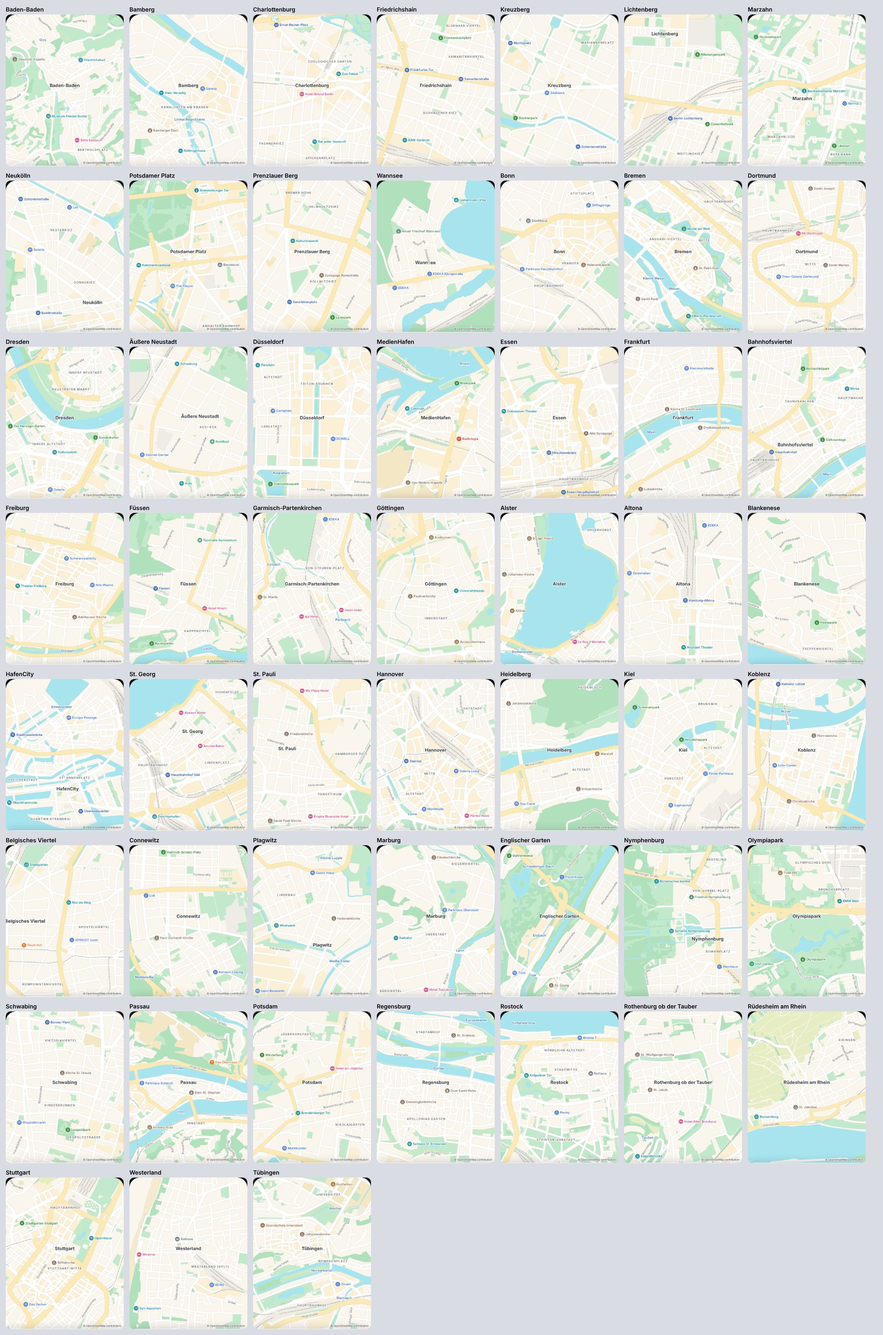
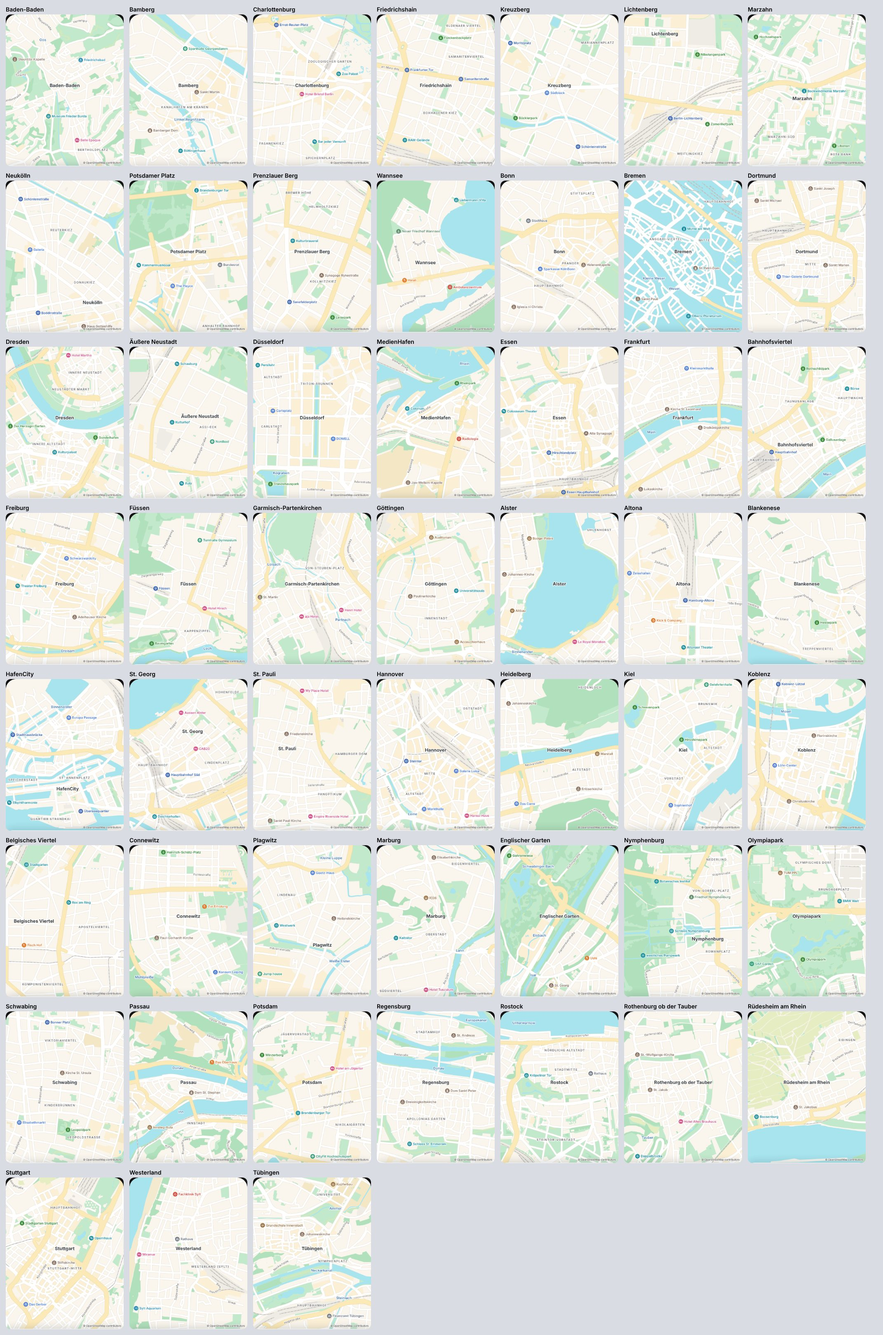
Map mockup: the sea drawn from coastlines, the big name kept on screen, street names clear of it, no chain shops or car parks; map.md checks
Claude-Session: https://claude.ai/code/session_01TBUyc4nvbfrUF2uL1hRtAL

diff --git a/docs/mockups/phone-map/osm/osmmap.js b/docs/mockups/phone-map/osm/osmmap.js
@@ -65,6 +65,34 @@ function rings(members) {
   }
   return outv.join('');
 }
+// the sea: OSM draws a coast as lines with the land on their left; joined, then closed round a frame outside the screen on the water side
+function sea() {
+  const ways = d.elements.filter(e => e.type === 'way' && e.tags && e.tags.natural === 'coastline' && e.geometry).map(e => e.geometry.map(g => [g.lon, g.lat]));
+  if (!ways.length) return '';
+  const same = (a, b) => a[0] === b[0] && a[1] === b[1], chains = [];
+  while (ways.length) { let c = ways.shift(); for (let grow = true; grow;) { grow = false; for (let i = 0; i < ways.length; i++) { const w = ways[i];
+    if (same(c.at(-1), w[0])) { c = c.concat(w.slice(1)); ways.splice(i, 1); grow = true; break; } if (same(w.at(-1), c[0])) { c = w.concat(c.slice(1)); ways.splice(i, 1); grow = true; break; } } } chains.push(c); }
+  const X0 = -400, Y0 = -400, X1 = W + 400, Y1 = H + 400, per = 2 * (X1 - X0 + Y1 - Y0);
+  const tOf = ([x, y]) => { const c = [Math.abs(y - Y0), Math.abs(x - X1), Math.abs(y - Y1), Math.abs(x - X0)], k = c.indexOf(Math.min(...c));
+    return [x - X0, (X1 - X0) + (y - Y0), (X1 - X0) + (Y1 - Y0) + (X1 - x), 2 * (X1 - X0) + (Y1 - Y0) + (Y1 - y)][k]; };
+  const atT = t => { t = ((t % per) + per) % per; const a = X1 - X0, b = Y1 - Y0; return t < a ? [X0 + t, Y0] : t < a + b ? [X1, Y0 + t - a] : t < 2 * a + b ? [X1 - (t - a - b), Y1] : [X0, Y1 - (t - 2 * a - b)]; };
+  const inside = (x, y, ps) => { let c = false; for (let i = 0, j = ps.length - 1; i < ps.length; j = i++) { const [a, b] = ps[i], [u, v] = ps[j]; if ((b > y) !== (v > y) && x < (u - a) * (y - b) / (v - b) + a) c = !c; } return c; };
+  let out = '';
+  for (const c of chains) {
+    const px = c.map(([lo, la]) => P(la, lo)).map(([x, y]) => [Math.max(X0, Math.min(X1, x)), Math.max(Y0, Math.min(Y1, y))]);
+    if (px.length < 2) continue;
+    if (same(c[0], c.at(-1))) { out += ring(px); continue; }   // an island: the ring itself is land, so the water is everything else
+    const tb = tOf(px.at(-1)), ta = tOf(px[0]), corners = [0, X1 - X0, X1 - X0 + Y1 - Y0, 2 * (X1 - X0) + Y1 - Y0];
+    const walk = dir => { const pts = []; let t = tb; const end = dir > 0 ? (ta - tb + per) % per : (tb - ta + per) % per;
+      const cs = corners.map(k => dir > 0 ? (k - tb + per) % per : (tb - k + per) % per).map((dd, i) => [dd, corners[i]]).filter(([dd]) => dd > 0 && dd < end).sort((a, b) => a[0] - b[0]);
+      for (const [, k] of cs) pts.push(atT(k)); return [...px, atT(tb), ...pts, atT(ta)]; };
+    // the water is on the coast's right (land on the left): test a point just right of the middle of the line
+    const m = Math.floor(c.length / 2), [lo0, la0] = c[Math.max(0, m - 1)], [lo1, la1] = c[Math.min(c.length - 1, m)], ddx = lo1 - lo0, ddy = la1 - la0, nn = Math.hypot(ddx, ddy) || 1;
+    const tp = P((la0 + la1) / 2 - ddx / nn * 0.0002, (lo0 + lo1) / 2 + ddy / nn * 0.0002);
+    const A = walk(1), B = walk(-1); out += ring(inside(tp[0], tp[1], A) ? A : B);
+  }
+  return out;
+}
 const area = e => e.type === 'relation' ? rings(e.members || []) : (e.geometry ? ring(pts(e.geometry)) : '');
 const COVER = { farm: '#f0eddc', grass: '#d3ebc4', scrub: '#c9ddb0', vine: '#dfe6bf', orchard: '#cfe5b8', allot: '#d9e8c6', grave: '#cfdcc8', rock: '#dcd9d3', sand: '#f3ead0', wet: '#cfe3dc' };
 const coverOf = t => { const n = t.natural, u = t.landuse;
@@ -120,7 +148,9 @@ const COVER0 = null;
 const pxArea = ps => Math.abs(ps.reduce((s, p, i) => { const q = ps[(i + 1) % ps.length]; return s + p[0] * q[1] - q[0] * p[1]; }, 0)) / 2;
 const centre = ps => { const n = ps.length; return [ps.reduce((s, p) => s + p[0], 0) / n, ps.reduce((s, p) => s + p[1], 0) / n]; };
 const POIS = [], GREENS = [];
-const L = { motor: '', station: '',  shop: '', works: '', railyard: '', school: '', mark: '', markStation: '', shadow: {}, built: '', park: '', forest: '', water: '', plaza: '', bld: '', foot: '', minor: '', mid: '', major: '', rail: '', tram: '' };
+// a place worth a name on the map: not a car park, not a chain shop or supermarket (EDEKA, PENNY…), unless it has its own wiki page
+const okPlace = (t, ic) => ic !== 'parking' && ic !== 'fuel' && !(t.brand && !t.wikipedia) && !((t.shop || ic === 'shop' || ic === 'mall') && !t.wikidata);
+const L = { sea: '', motor: '', station: '',  shop: '', works: '', railyard: '', school: '', mark: '', markStation: '', shadow: {}, built: '', park: '', forest: '', water: '', plaza: '', bld: '', foot: '', minor: '', mid: '', major: '', rail: '', tram: '' };
 const BUILT = /residential|commercial|retail|industrial|railway|construction|brownfield|education|emergency/;
 const GREEN = /grass|village_green|flowerbed|meadow|allotments|cemetery|greenhouse/;
 for (const e of d.elements) {
@@ -131,7 +161,7 @@ for (const e of d.elements) {
     const a = area(e);
     if (PRETTY || GMAP) {
       const ps = pts(e.geometry), px = pxArea(ps);
-      { const ic = pick(t); if (ic && (t.name || t.wikidata)) POIS.push({ ic, at: centre(ps), pr: (t.wikidata ? 2 : 0) + (t.name ? 1 : 0) + Math.min(2, px / 400), name: t.name }); }
+      { const ic = pick(t); if (ic && (t.name || t.wikidata) && okPlace(t, ic)) POIS.push({ ic, at: centre(ps), pr: (t.wikidata ? 2 : 0) + (t.name ? 1 : 0) + Math.min(2, px / 400), name: t.name }); }
       if (t.building === 'train_station' || t.railway === 'station') { L.station += a; continue; }
       if (px < 40 * k * k * 2.2) continue;          // the tiny sheds and kiosks go
       if (GMAP) continue;                              // gmap: no houses at this scale — the blocks are the ground
@@ -144,8 +174,8 @@ for (const e of d.elements) {
     if (FX.includes('D')) { const lv = parseFloat(t['building:levels']) || (t.height ? parseFloat(t.height) / 3 : 0) || 3, off = Math.min(7, 0.5 + lv * 3 * k * 0.3), b = (Math.round(off * 2) / 2).toFixed(1); L.shadow[b] = (L.shadow[b] || '') + a; }
     continue;
   }
-  if (COLLECT && e.geometry) { const ic = pick(t); if (ic && t.name && !t.building) { const ps = pts(e.geometry); POIS.push({ ic, at: centre(ps), pr: (t.wikidata ? 2 : 0) + 1 + Math.min(2, pxArea(ps) / 3000), name: t.name }); } }
-  if (COLLECT && e.type === 'node') { const ic = pick(t); if (ic && (t.name || t.wikidata)) POIS.push({ ic, at: P(e.lat, e.lon), pr: (t.wikidata ? 2.5 : 0) + 1, name: t.name }); }
+  if (COLLECT && e.geometry) { const ic = pick(t); if (ic && t.name && !t.building && okPlace(t, ic)) { const ps = pts(e.geometry); POIS.push({ ic, at: centre(ps), pr: (t.wikidata ? 2 : 0) + 1 + Math.min(2, pxArea(ps) / 3000), name: t.name }); } }
+  if (COLLECT && e.type === 'node') { const ic = pick(t); if (ic && (t.name || t.wikidata) && okPlace(t, ic)) POIS.push({ ic, at: P(e.lat, e.lon), pr: (t.wikidata ? 2.5 : 0) + 1, name: t.name }); }
   // gmap: parks only where they matter — courtyard lawns, flowerbeds and small gardens go
   if (GMAP && e.type === 'way' && e.geometry && (t.leisure && /park|garden/.test(t.leisure) || /^(grass|flowerbed|village_green|greenery)$/.test(t.landuse || '') || t.natural === 'grassland') && pxArea(pts(e.geometry)) < 2500 * k * k) continue;
   if (t.leisure && /park|garden/.test(t.leisure)) { L.park += area(e); if (COLLECT && e.type === 'way' && e.geometry) GREENS.push(pts(e.geometry)); continue; }
@@ -193,7 +223,7 @@ const fill = (dd, col) => dd ? `<path d="${dd}" fill="${col}" fill-rule="evenodd
 const mpx = m => Math.max(0.6, m * k);                       // real width in meters → px, with a floor
 let svg = `<rect width="${W}" height="${H}" fill="${C.land}"/>`
   + fill(L.built, C.built) + fill(L.resi, C.resi) + fill(L.shop, C.shop) + fill(L.works, C.works) + fill(L.railyard, C.railyard) + fill(L.school, C.school)
-  + ['farm', 'grass', 'allot', 'orchard', 'vine', 'grave', 'scrub', 'wet', 'sand', 'rock'].map(k => fill(LC[k], COVER[k])).join('') + fill(L.park, C.park) + fill(L.forest, C.forest) + fill(L.plaza, C.plaza) + fill(L.water, C.water)
+  + ['farm', 'grass', 'allot', 'orchard', 'vine', 'grave', 'scrub', 'wet', 'sand', 'rock'].map(k => fill(LC[k], COVER[k])).join('') + fill(L.park, C.park) + fill(L.forest, C.forest) + fill(L.plaza, C.plaza) + fill(sea(), C.water) + fill(L.water, C.water)
   + terrain()
   + Object.entries(L.shadow).map(([o, dd]) => `<path d="${dd}" fill="${C.shadow}" opacity=".75" transform="translate(${o} ${(o * 1.3).toFixed(1)})"/>`).join('')
   + fill(L.bld, C.bld) + fill(L.mark, C.mark) + fill(L.markStation, C.markStation)
@@ -209,7 +239,7 @@ let svg = `<rect width="${W}" height="${H}" fill="${C.land}"/>`
   + (PRETTY ? prettyTop() : '');
 if (GMAP) svg = `<rect width="${W}" height="${H}" fill="${C.land}"/>`
   + fill(L.built, C.built) + fill(L.resi, C.resi) + fill(L.shop, C.shop) + fill(L.works, C.works) + fill(L.railyard, C.railyard) + fill(L.school, C.school)
-  + ['farm', 'grass', 'allot', 'orchard', 'vine', 'grave', 'scrub', 'wet', 'sand', 'rock'].map(k2 => fill(LC[k2], COVER[k2])).join('') + fill(L.park, C.park) + fill(L.forest, C.forest) + fill(L.plaza, C.plaza) + fill(L.water, C.water)
+  + ['farm', 'grass', 'allot', 'orchard', 'vine', 'grave', 'scrub', 'wet', 'sand', 'rock'].map(k2 => fill(LC[k2], COVER[k2])).join('') + fill(L.park, C.park) + fill(L.forest, C.forest) + fill(L.plaza, C.plaza) + fill(sea(), C.water) + fill(L.water, C.water)
   + fill(L.bld, C.bld) + fill(L.station, '#e2dfda')
   // park paths as faces, not lines: the few long ones as a soft band one shade lighter than the grass, no rim
   + (L.park + L.forest ? `<defs><clipPath id="gp"><path d="${L.park + L.forest}"/></clipPath></defs><g clip-path="url(#gp)">${st(parkPaths(), C.foot, Math.max(3.6, mpx(4)))}</g>` : '')
@@ -311,7 +341,8 @@ function gmapMarks(labels) {
   // quarters first (they own the middle), then places, then streets in what is left
   let quarters = 0;
   for (const [la, lo, n, sz, wt, col] of labels) { if (n !== process.env.MAIN && col !== '#5a84ad' && ++quarters > 3) continue;   // the big name + three quarters at most
-    const [x, y] = P(la, lo), big = n === process.env.MAIN, z = big ? 15 : col === '#5a84ad' ? 11.5 : 12, w = n.length * z * 0.6;
+    let [x, y] = P(la, lo); const big = n === process.env.MAIN, z = big ? 15 : col === '#5a84ad' ? 11.5 : 12, w = n.length * z * 0.6;
+    if (big) x = Math.max(w / 2 + 12, Math.min(W - w / 2 - 12, x));   // the big name never runs off the screen
     const b = [x - w / 2 - 4, y - z - 2, x + w / 2 + 4, y + 4]; if (hit(b)) continue; taken.push(b);
     if ((process.env.GPAL ?? 'ACa') && !big && col !== '#5a84ad') { o += `<text x="${f(x)}" y="${f(y)}" text-anchor="middle" font-family="-apple-system, 'Noto Sans KR', sans-serif" font-size="10" font-weight="600" letter-spacing=".12em" fill="#6f6f6f" stroke="#fff" stroke-width="2.6" paint-order="stroke">${n.toUpperCase()}</text>`; continue; }
     o += txt(x, y, n, z, big ? 700 : 600, col === '#5a84ad' ? (process.env.GPAL === 'B' ? '#3f5a63' : '#4a7fb5') : big ? '#3c4043' : '#5f6368'); }
@@ -354,7 +385,8 @@ function gmapMarks(labels) {
     let ps = s2.ps.filter(([x, y]) => x > -20 && x < W + 20 && y > -20 && y < 490); if (ps.length < 2) continue;
     if (ps[0][0] > ps.at(-1)[0]) ps = ps.slice().reverse();
     const mid = ps[ps.length >> 1], w = s2.name.length * 5.6; const b = [mid[0] - w / 2 - 2, mid[1] - 8, mid[0] + w / 2 + 2, mid[1] + 8];
-    if (hit(b) || mid[0] < 30 || mid[0] > W - 30 || mid[1] < 20 || mid[1] > 480) continue; taken.push(b); sn.add(s2.name);
+    const run = ps.filter(([x, y]) => Math.hypot(x - mid[0], y - mid[1]) < w / 2 + 6).map(([x, y]) => [x - 6, y - 7, x + 6, y + 7]);   // the text follows the street: every bit of it must be clear
+    if (hit(b) || run.some(hit) || mid[0] < 30 || mid[0] > W - 30 || mid[1] < 20 || mid[1] > 480) continue; taken.push(b, ...run); sn.add(s2.name);
     defs += `<path id="sp${id}" d="${line(ps)}"/>`;
     o += `<text font-family="-apple-system, 'Noto Sans KR', sans-serif" font-size="9.5" font-weight="500" fill="#7a7770" stroke="#fff" stroke-width="2.6" paint-order="stroke" dy="3.2"><textPath href="#sp${id++}" startOffset="50%" text-anchor="middle">${s2.name}</textPath></text>`;
     if (sn.size >= 8) break; }

diff --git a/docs/design/map.md b/docs/design/map.md
@@ -39,6 +39,9 @@
 - **아이콘 77종:** `docs/mockups/phone-map/osm/icons.js`(`ICON`, 데이터 태그 → 아이콘 `pick()`), 판 `icons-77.png`. 24 격자 선 그림이에요. 그린 뒤 실제 모양 상자를 재서 가운데로 옮겨요(`iconbox.cjs` → `OFF`, `glyph()`). 새 아이콘을 넣으면 꼭 다시 돌려요(광학 정렬). 손잡이처럼 가벼운 부분이 상자를 끌어당기는 아이콘(맥주잔 · 커피잔)은 `iconbox.cjs`의 `OPT`로 눈대중만큼 더 옮겨요. 병원은 상자 없는 테두리 플러스, 약국은 알약, 동물원은 발바닥이에요.
 - **축척:** 동네 한가운데 1km² 안 건물 수로 정해요(빽빽하면 가깝게, 성기면 멀리, 1~1.55km 폭). 너무 가까이 당기면 "볼 게 없어요".
 
+- **바다:** OSM은 해안을 선(`natural=coastline`, 왼쪽이 땅)으로만 줘요. 이어 붙인 뒤 화면 밖 큰 틀을 물 쪽으로 돌아 닫아서 바다 면을 만들어요(`sea()`). 안 하면 킬 · 질트처럼 바다가 통째로 빠져요.
+- **이름표 점검(새 동네를 넣을 때마다):** 큰 동네 이름이 화면 밖으로 잘리지 않는지, 길 이름이 큰 이름을 가로지르지 않는지(길 이름은 글자가 지나가는 길 전체를 비켜요), 체인 가게(EDEKA · PENNY) · 주차장 이름이 끼지 않았는지(위키 문서 있는 곳만 남겨요) 봐요.
+
 ## 안 된 것 (다시 하지 않기)
 
 - 높이 색 · 산 그림자(지형 타일): 동네 축척에서는 그라데이션 · 타원 얼룩이 돼요. 실제 지도도 이 축척에선 안 써요. 산은 땅 덮개(숲 · 풀밭 · 바위)와 구불구불한 길로 보여요.
